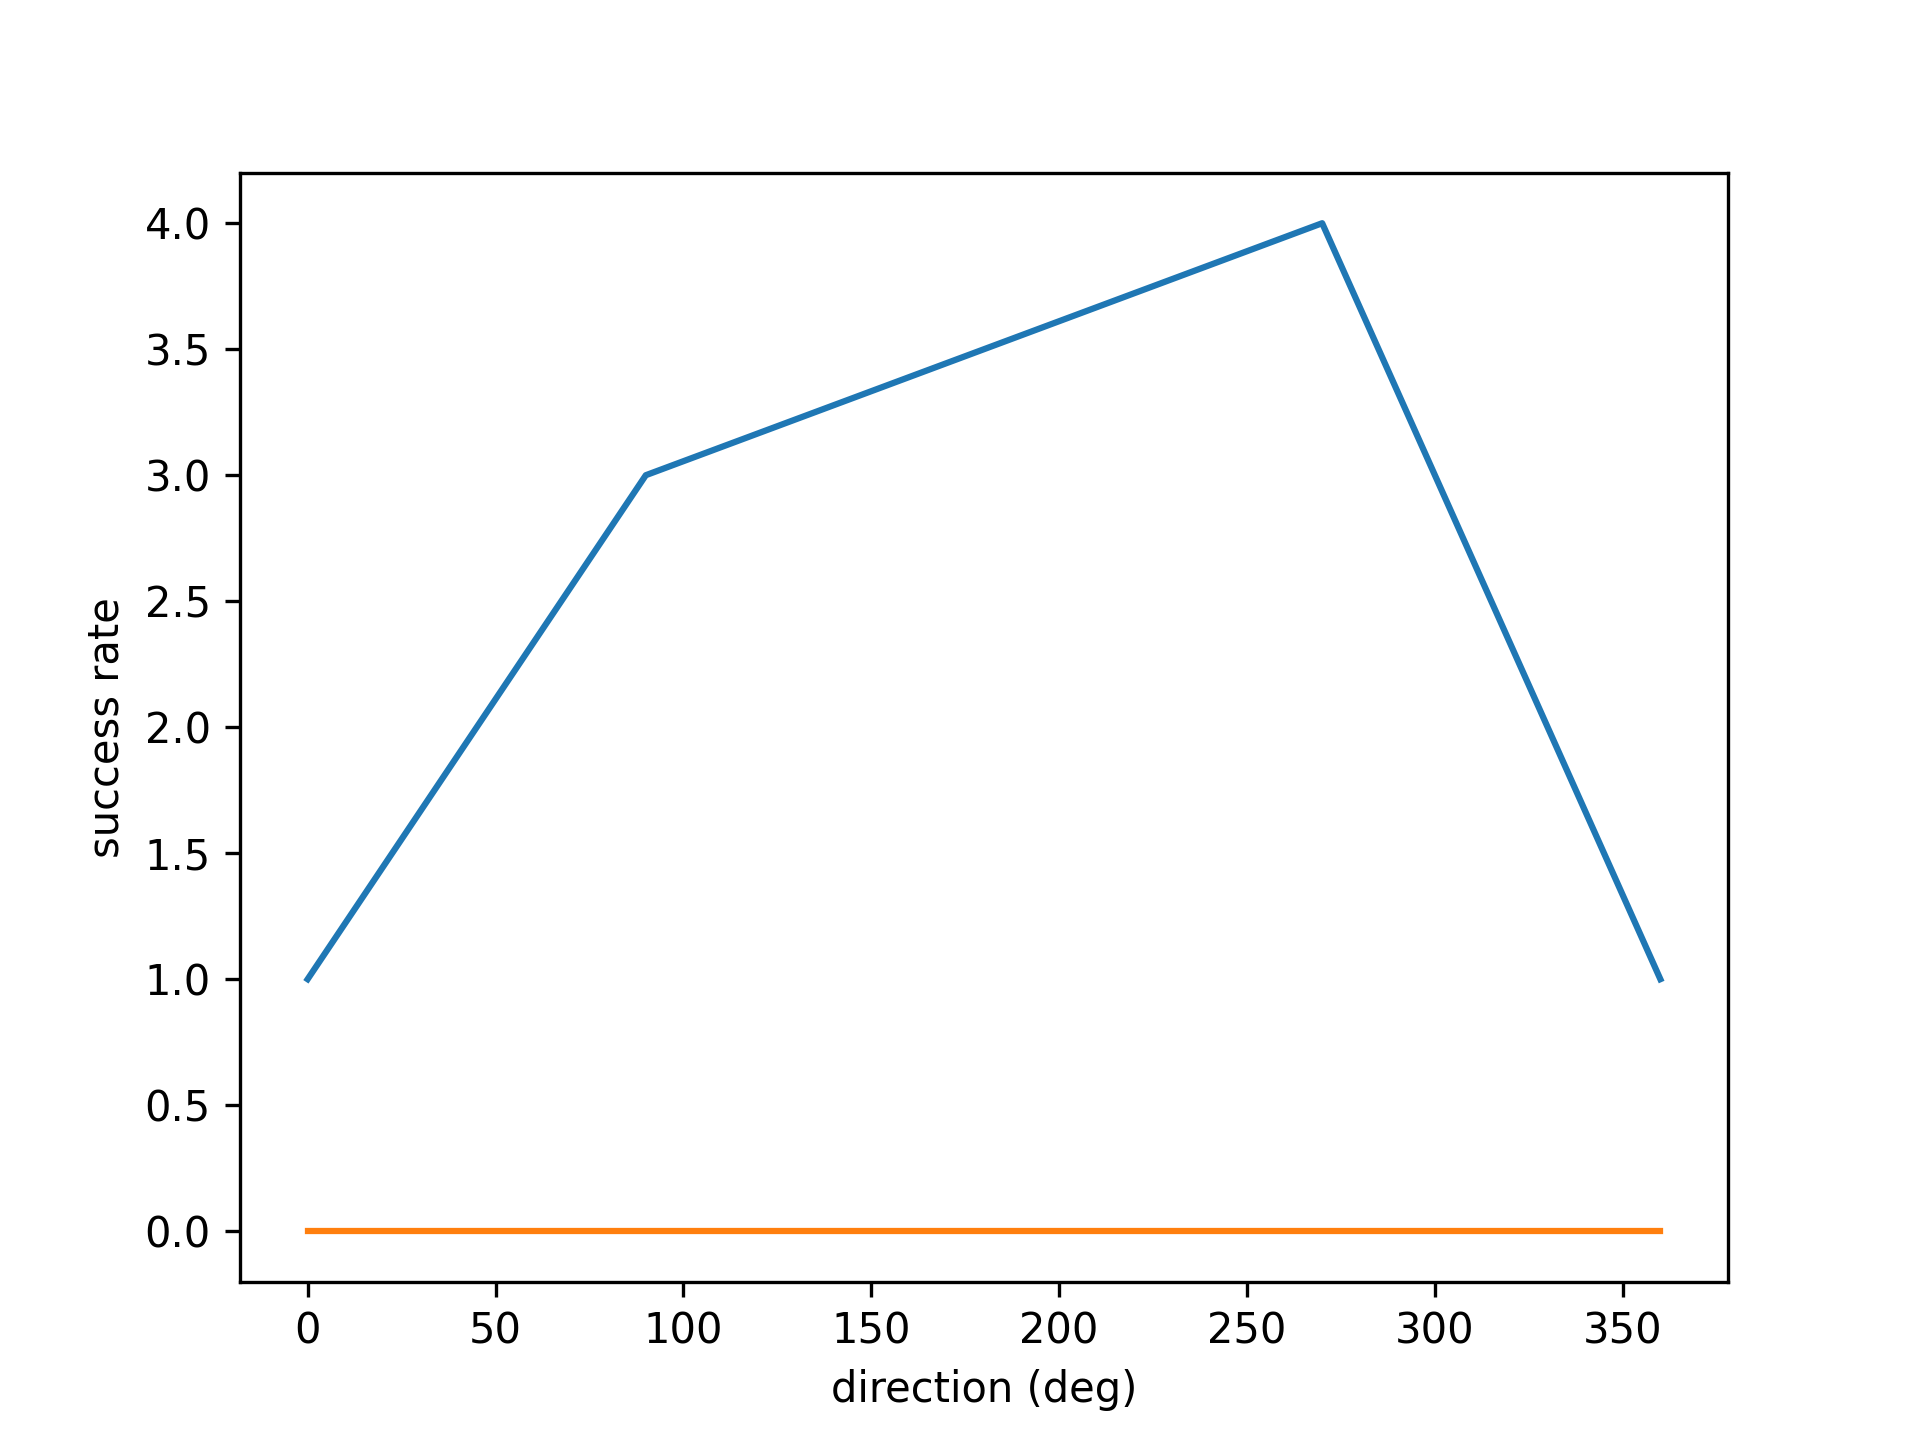
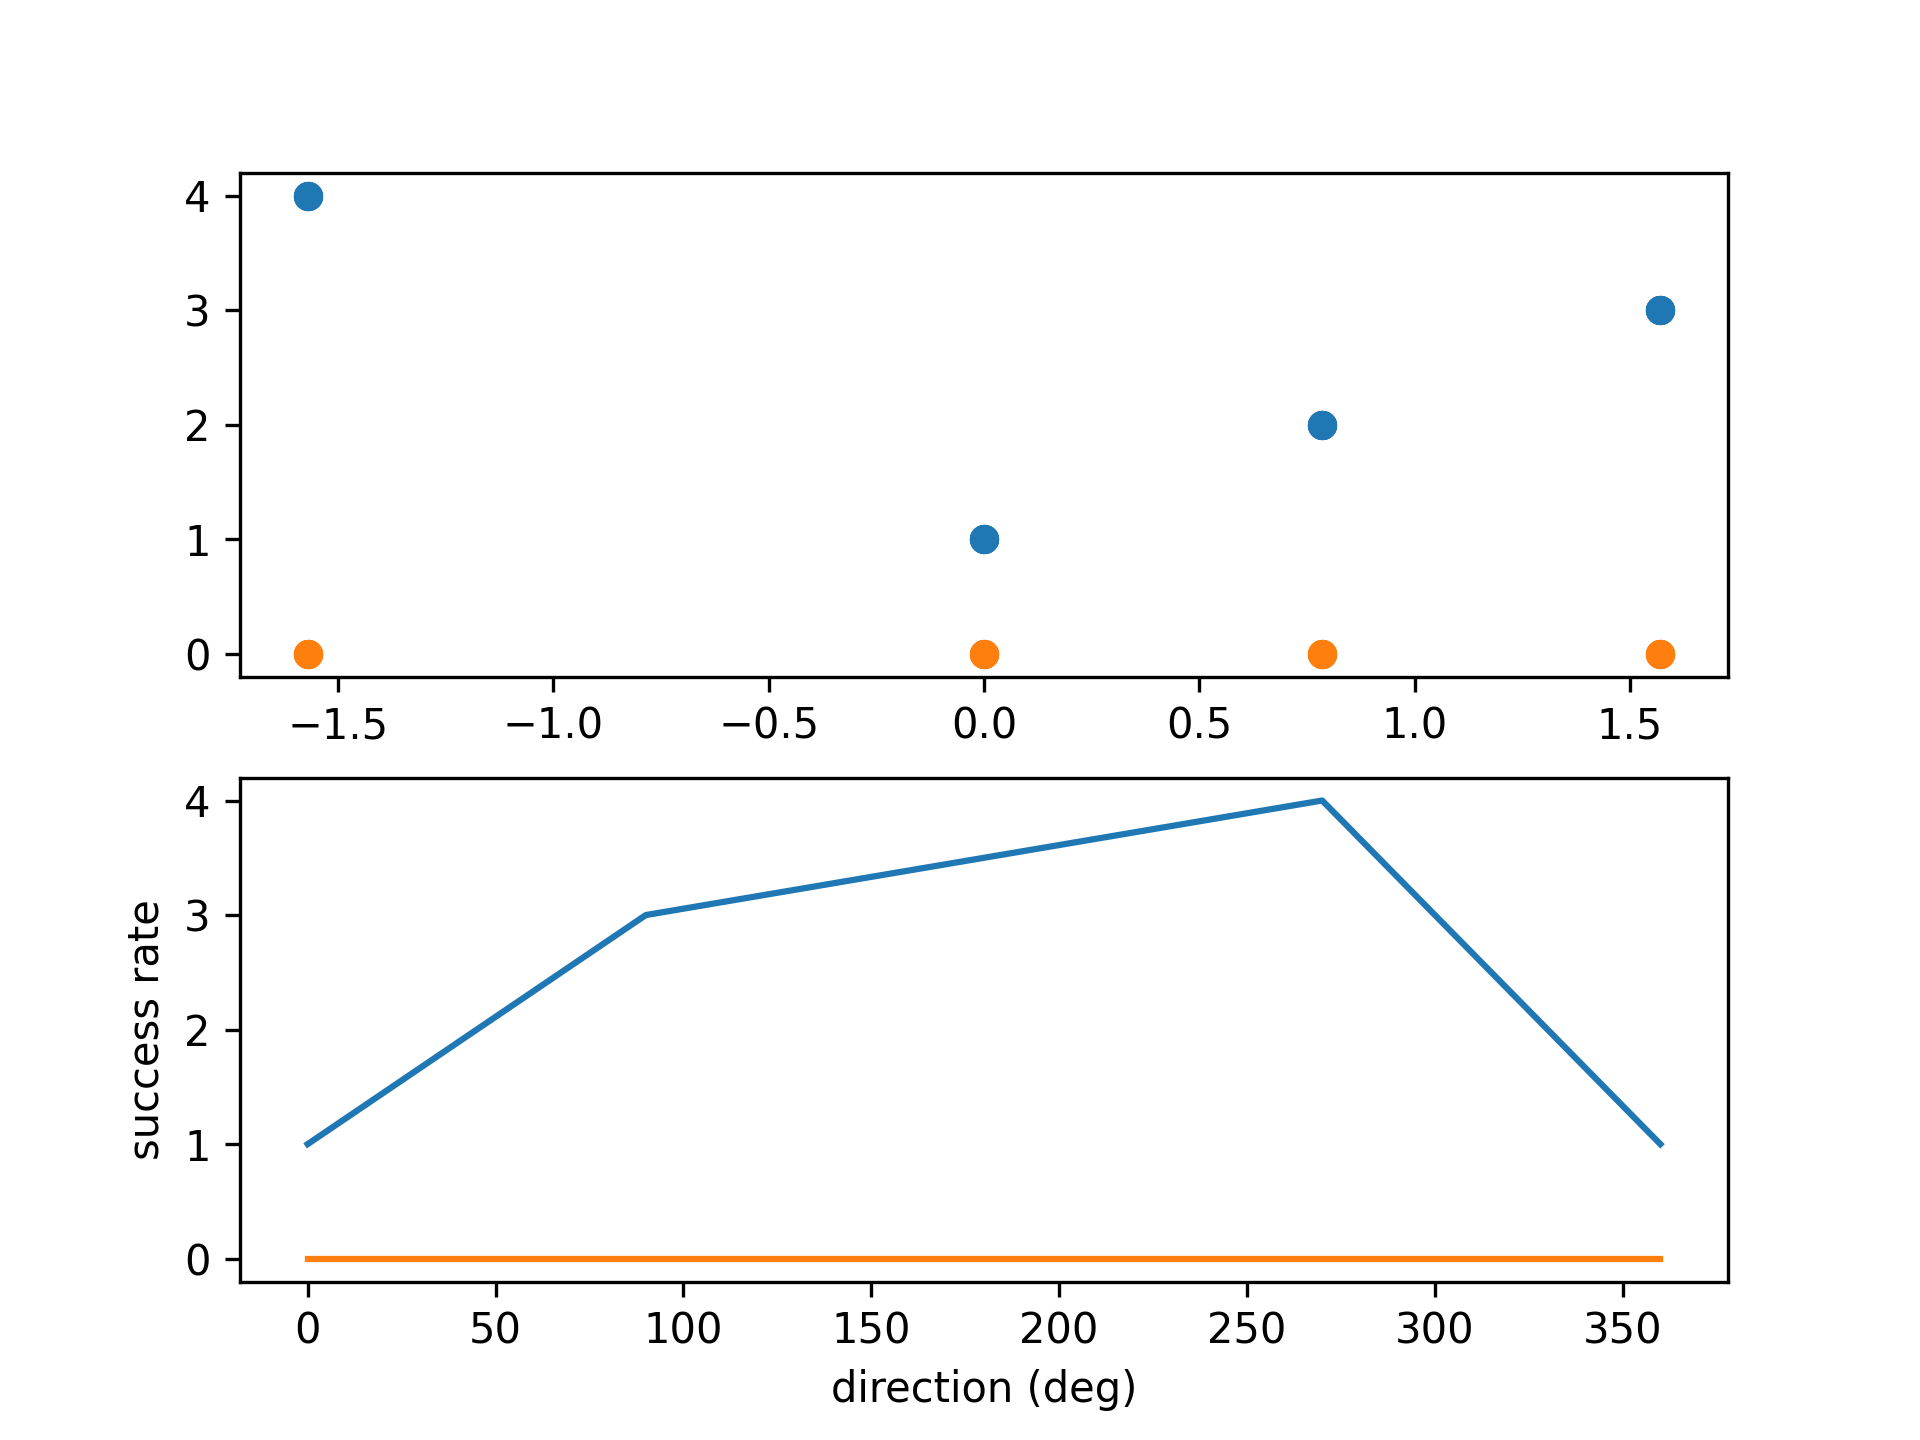
update

diff --git a/aopy/visualization/base.py b/aopy/visualization/base.py
@@ -1427,72 +1427,132 @@ def plot_waveforms(waveforms, samplerate, plot_mean=True, ax=None):
 
     ax.set_xlabel(r'Time ($\mu$s)')    
     
-def plot_direction_tuning(direction, mean, var=None, wrap=True, ylabel='success rate', ax=None):
+def plot_condition_tuning(per_condition_data, conditions, ylabel='success rate', ax=None, **kwargs):
+    '''
+    Plot tuning curves for categorical data. Essentially a scatter plot with the mean of each condition
+    plotted as a solid line.
+
+    Args:
+        per_condition_data (nconditions, ...): data for each condition
+        conditions (nconditions): condition for each data point
+        ylabel (str, optional): label for the y-axis. Default "success rate"
+        ax (pyplot.Axes, optional): axis to plot the tuning curves on. Default the current axis.
+
+    Examples:
+
+        Plot the success rate for 4 different conditions
+
+        .. code-block:: python
+            direction = [-np.pi, -np.pi/2, 0, np.pi/2]
+            data = np.random.normal(0, 1, (4, 2, 4))
+            
+            fig = plt.figure()
+            plot_condition_tuning(data, np.degrees(direction))
+            
+        .. image:: _images/condition_tuning.png
+    '''
+    if ax is None:
+        ax = plt.gca()
+
+    per_condition_data = np.array(per_condition_data).reshape(len(per_condition_data), -1)
+    ntr = per_condition_data.shape[1]
+    print(per_condition_data.shape)
+    print(conditions.shape)
+
+    # Scatter plot
+    plt.scatter(np.tile(conditions, (1,ntr)), per_condition_data, **kwargs)
+
+    # Add means
+    dist = (np.max(conditions) - np.min(conditions)) / len(conditions)
+    for idx, cond in enumerate(per_condition_data):
+        mean = np.mean(cond)
+        ax.plot([conditions[idx]-dist/2, conditions[idx]+dist/2], [mean, mean], 'r-')
+
+    ax.set_xlabel('condition')
+    ax.set_ylabel(ylabel)
+
+def plot_direction_tuning(per_direction_data, directions, show_var=True, wrap=True, ylabel='success rate', ax=None):
     '''
     Plot tuning curves for directional data. The mean is plotted as a solid line and the variance as 
     a shaded region around the mean. Works with both cartesian and polar axes.
     
     Args:
-        direction (ndir): direction of each tuning curve in radians
-        mean (ndir, nch): mean of the tuning curve for each channel. If only one channel, can be (ndir,)
-        var (ndir, nch): variance of the tuning curve for each channel. If only one channel, can be (ndir,)
-            Can also be left blank if there is no variance to plot.
+        mean (ndir, nch, ntrial): direction responses for each channel. If only one channel, can be (ndir, ntrial).
+        directions (ndir): unique directions in radians
+        show_var (bool, optional): if True, shows the variance around the mean. Default True.
         wrap (bool, optional): if True, duplicates the first value to wrap the plot around a circle. Default True.
         ylabel (str, optional): label for the y-axis. Default "success rate"
-        ax (pyplot.Axes, optional): axis to plot the tuning curves on. Default the current axis.
+        ax (pyplot.Axes, optional): axis to plot the tuning curves on. Can be cartesian or polar. Default the current axis.
     
     Example:
         Polar plot of tuning curves for 4 targets
 
         .. code-block:: python
+
+            direction = [-np.pi, -np.pi/2, 0, np.pi/2]
+            data = np.random.normal(0, 1, (4, 2, 4))
+            
+            plt.figure()
+            plot_direction_tuning(data, direction)
+        
+        .. image:: _images/direction_tuning.png
+
+        Again but with polar plot
+        
+        .. code-block:: python
+        
             fig = plt.figure()
             ax = fig.add_subplot(projection='polar')
-            
-            direction = [-np.pi, -np.pi/2, 0, np.pi/2]
-            mean = np.array([[1, 2, 3, 2], [2, 3, 4, 3]]).T
-            var = np.array([[0.2, 0.3, 0.1, 0.], [0.4, 0.6, 0.2, 0]]).T
 
+            plot_direction_tuning(data, direction)
+        
         .. image:: _images/direction_tuning_polar.png
     '''
-    if var is None:
-        var = np.zeros_like(mean)
-    assert np.shape(mean) == np.shape(var), "Mean and variance must have the same shape"
-    if np.ndim(mean) == 1:
-        mean = np.expand_dims(mean, 1)
-        var = np.expand_dims(var, 1)
-
     if ax is None:
         ax = plt.gca()
+
+    if np.ndim(per_direction_data) == 1:
+        per_direction_data = np.expand_dims(per_direction_data, 1)
+    if np.ndim(per_direction_data) == 2:
+        per_direction_data = np.expand_dims(per_direction_data, 1)
             
-    if len(direction) != len(mean):
-        direction = np.unique(direction)
-    assert len(direction) == len(mean), "Direction and mean must have the same length"
+    if len(directions) != len(per_direction_data):
+        directions = np.unique(directions)
+    assert len(directions) == len(per_direction_data), "Direction and mean must have the same length"
+
+    # Calculate mean and variance
+    mean = np.nanmean(per_direction_data, axis=2)
+    if show_var:
+        var = np.nanstd(per_direction_data, axis=2)
+    else:
+        var = np.zeros_like(mean)
 
     # Sort the data and decide if the data fills a full circle or half circle
-    if np.max(np.abs(direction)) > 2*np.pi:
-        direction = np.radians(direction) # probably in degrees by mistake
+    if np.max(np.abs(directions)) > 2*np.pi:
+        directions = np.radians(directions) # probably in degrees by mistake
     modulo = np.pi
-    if np.max(direction) - np.min(direction) >= (np.pi):
+    if np.max(directions) - np.min(directions) >= (np.pi):
         modulo = np.pi * 2
-    direction = np.array(direction) % modulo
-    idx = np.argsort(direction)
+    directions = np.array(directions) % modulo
+    idx = np.argsort(directions)
 
     # Wrap around the circle
     if wrap:
-        direction = np.hstack((direction[idx], [direction[idx[0]] + modulo]))
+        directions = np.hstack((directions[idx], [directions[idx[0]] + modulo]))
         mean = np.vstack((mean[idx], [mean[idx[0]]]))
         var = np.vstack((var[idx], [var[idx[0]]]))
     else:
-        direction = direction[idx]
+        directions = directions[idx]
         mean = mean[idx]
         var = var[idx]
 
+    # Plot
     if ax.name != 'polar':
-        direction = np.degrees(direction)
+        directions = np.degrees(directions)
 
     for ch in range(mean.shape[1]):
-        ax.plot(direction, mean[:,ch])
-        ax.fill_between(direction, mean[:,ch]-var[:,ch], mean[:,ch]+var[:,ch], alpha=0.5)
+        ax.plot(directions, mean[:,ch])
+        ax.fill_between(directions, mean[:,ch]-var[:,ch], mean[:,ch]+var[:,ch], alpha=0.5)
 
     try:
         label_position=ax.get_rlabel_position()

diff --git a/aopy/analysis/tuning.py b/aopy/analysis/tuning.py
@@ -95,28 +95,69 @@ def get_mean_fr_per_condition(data, condition_labels, return_significance=False)
     else:
         return np.array(means_d).T, np.array(stds_d).T
     
-def get_target_tuning(data, target_idx, target_locations, return_significance=False):
+def convert_target_to_direction(target_locations):
     '''
-    Computes the mean and standard deviation of per-target data and organizes by direction.
+    Converts target index to target direction in radians.
+
+    Args:
+        target_locations (ntargets, 2): array of unique target (x, y) locations
+
+    Returns:
+        (ntarget,) array: target direction in radians for each trial
+    '''
+    target_locations = np.array(target_locations)
+    assert target_locations.shape[1] == 2, "Target locations must be 2D"
+    return np.array([np.arctan2(*t) for t in target_locations])
+
+def get_per_target_response(data, target_idx):
+    '''
+    Organizes trial response per target. Pads with nans if there are unequal number of trials per target.
 
     Args:
         data (nt, nch, ntrials): trial aligned neural data
         target_idx (ntrials): target index for each trial
-        target_locations (ntargets, 2): array of target (x, y) locations
-        return_significance (bool): Uses the one-way ANOVA test to compute a p-value for each channel/unit
 
     Returns:
         tuple: Tuple containing:
-            | **target_angles (ntargets):** angles of target locations in radians
-            | **means_d (ntargets, nch):** mean firing rate per neuron per target direction
-            | **stds_d (ntargets, nch):** standard deviation from mean firing rate per neuron
-            | **pvalue (ntargets, nch):** significance of modulation
-    '''
-    target_locations = np.array(target_locations)
-    assert target_locations.shape[1] == 2, "Target locations must be 2D"
+            | **per_target_response (ntargets, nt, nch, ntrials/ntargets):** trial aligned neural data per target
+            | **unique_targets (ntargets):** unique target indices corresponding to the 3rd dimension of per_target_response
+    
+    Examples:
 
-    target_angles = np.array([np.arctan2(*t) for t in target_locations])
-    return target_angles, *(v.T for v in get_mean_fr_per_condition(data, target_idx, return_significance=return_significance))
+        .. code-block:: python
+            erp = np.zeros((100, 2, 16))
+            erp[:,0,:4] = 3
+            erp[:,0,4:8] = 1
+            erp[:,0,8:12] = 2
+            erp[:,0,12:] = 4
+            target_idx = [2, 2, 2, 2, 0, 0, 0, 0, 1, 1, 1, 1, 3, 3, 3, 3]
+            target_locations = np.array([[0, 1], [1, 1], [1, 0], [-1, 0]])
+
+            per_target_resp, unique_targets = aopy.analysis.get_per_target_response(erp, target_idx)
+            target_angles = aopy.analysis.convert_target_to_direction(target_locations[unique_targets])
+
+            self.assertEqual(target_angles.size, 4)
+            self.assertEqual(per_target_resp.shape, (4, 100, 2, 4))
+
+            per_target_resp = np.mean(per_target_resp, axis=1)
+
+            plt.figure()
+            aopy.visualization.plot_direction_tuning(per_target_resp, target_angles)
+
+        .. image:: _images/get_target_tuning.png
+    '''
+    unique_targets = np.unique(target_idx)
+    ntargets = len(unique_targets)
+    max_trials = np.max([np.sum(target_idx == t) for t in unique_targets])
+
+    nt, nch, _ = data.shape
+    per_target_response = np.full((ntargets, nt, nch, max_trials), np.nan)
+
+    for i, target in enumerate(unique_targets):
+        target_trials = data[:, :, target_idx == target]
+        per_target_response[i, :, :, :target_trials.shape[2]] = target_trials
+
+    return per_target_response, unique_targets
 
 def run_tuningcurve_fit(mean_fr, targets, fit_with_nans=False, min_data_pts=3):
     '''

diff --git a/tests/test_visualization.py b/tests/test_visualization.py
@@ -306,48 +306,51 @@ class CurveFittingTests(unittest.TestCase):
         plot_tuning_curves(fit_params, data, targets, n_subplot_cols=4, ax=ax)
 
     def test_plot_direction_tuning(self):
+        np.random.seed(0)
         direction = [-np.pi, -np.pi/2, 0, np.pi/2]
-        mean = [1, 2, 3, 2]
+        data = np.random.normal(0, 1, (4, 2))
         
         plt.figure()
-        plot_direction_tuning(direction, mean)
+        plot_direction_tuning(data, direction, show_var=False)
         savefig(write_dir, 'direction_tuning_simple.png', transparent=False)
 
         # Again with polar plot
         fig = plt.figure()
         ax = fig.add_subplot(projection='polar')
 
-        plot_direction_tuning(direction, mean, wrap=False)
+        plot_direction_tuning(data, direction, wrap=False, show_var=False)
         savefig(write_dir, 'direction_tuning_simple_polar.png', transparent=False)
 
         # Try multichannel
         direction = [-np.pi, -np.pi/2, 0, np.pi/2]
-        mean = np.array([[1, 2, 3, 2], [2, 3, 4, 3]]).T
-        var = np.array([[0.2, 0.3, 0.1, 0.], [0.4, 0.6, 0.2, 0]]).T
+        data = np.random.normal(0, 1, (4, 2, 4))
         
         plt.figure()
-        plot_direction_tuning(direction, mean, var)
+        plot_direction_tuning(data, direction)
         savefig(docs_dir, 'direction_tuning.png', transparent=False)
 
         plt.figure()
-        plot_direction_tuning(np.degrees(direction), mean, var)
+        plot_direction_tuning(data, np.degrees(direction))
         savefig(write_dir, 'direction_tuning_degrees.png', transparent=False)
 
         # Again with polar plot
         fig = plt.figure()
         ax = fig.add_subplot(projection='polar')
 
-        plot_direction_tuning(direction, mean, var)
+        plot_direction_tuning(data, direction)
         savefig(docs_dir, 'direction_tuning_polar.png', transparent=False)
 
-        # Make sure it works with a 180 degree range
+        # Test the categorical plot
+        fig = plt.figure()
+        plot_condition_tuning(data, np.degrees(direction))
+        savefig(docs_dir, 'condition_tuning.png', transparent=False)
+
+        # Make sure both work with a 180 degree range
         direction = [0, np.pi/4, np.pi/2, 3*np.pi/4]
-        mean = [1, 2, 3, 2]
 
         plt.figure()
-        plot_direction_tuning(direction, mean)
+        plot_direction_tuning(data, direction)
         savefig(write_dir, 'direction_tuning_modulo.png', transparent=False)
-
 
     def test_plot_boxplots(self):
         # Rectangular array

diff --git a/tests/test_analysis.py b/tests/test_analysis.py
@@ -211,23 +211,25 @@ class misc_tests(unittest.TestCase):
 
 class TestTuning(unittest.TestCase):
 
-    def test_get_target_tuning(self):
+    def test_get_per_target_response(self):
         erp = np.zeros((100, 2, 16))
-        erp[:,0,:4] = 1
-        erp[:,0,4:8] = 2
-        erp[:,0,8:12] = 3
+        erp[:,0,:4] = 3
+        erp[:,0,4:8] = 1
+        erp[:,0,8:12] = 2
         erp[:,0,12:] = 4
-        target_idx = [0, 0, 0, 0, 1, 1, 1, 1, 2, 2, 2, 2, 3, 3, 3, 3]
+        target_idx = [2, 2, 2, 2, 0, 0, 0, 0, 1, 1, 1, 1, 3, 3, 3, 3]
         target_locations = np.array([[0, 1], [1, 1], [1, 0], [-1, 0]])
 
-        directions, mean, var = aopy.analysis.get_target_tuning(erp, target_idx, target_locations)
-        print(directions)
-        self.assertEqual(directions.size, 4)
-        self.assertEqual(mean.size, 8)
-        self.assertEqual(var.size, 8)
-        print(mean.shape)
+        per_target_resp, unique_targets = aopy.analysis.get_per_target_response(erp, target_idx)
+        target_angles = aopy.analysis.convert_target_to_direction(target_locations[unique_targets])
+
+        self.assertEqual(target_angles.size, 4)
+        self.assertEqual(per_target_resp.shape, (4, 100, 2, 4))
+
+        per_target_resp = np.mean(per_target_resp, axis=1)
+
         plt.figure()
-        aopy.visualization.plot_direction_tuning(directions, mean, var)
+        aopy.visualization.plot_direction_tuning(per_target_resp, target_angles)
         aopy.visualization.savefig(docs_dir, 'get_target_tuning.png', transparent=False)
 
     def test_run_tuningcurve_fit(self):
